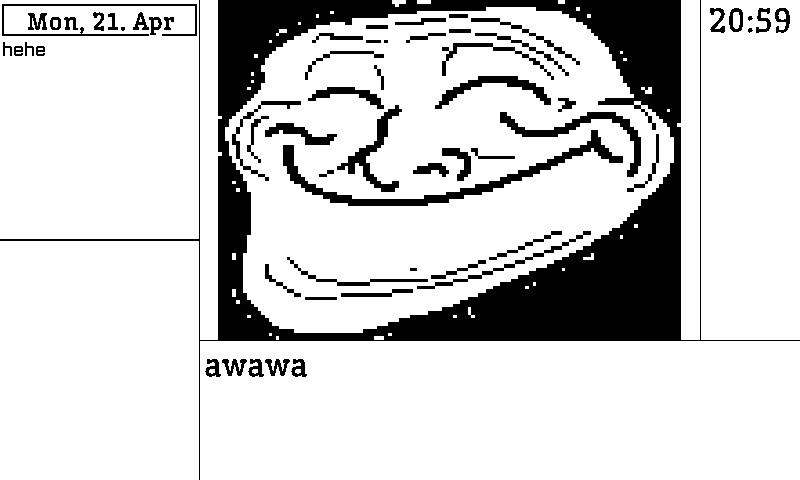
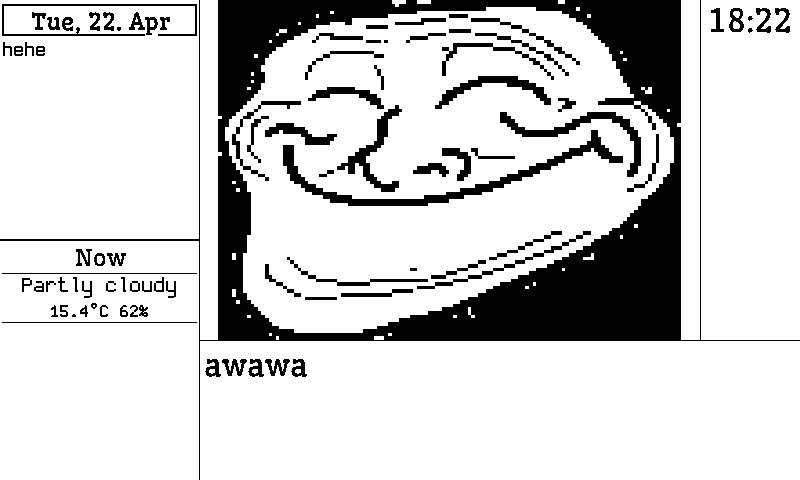
feat: Some weather layouting work

Changed region(s): [[0.0, 0.5, 0.2188, 0.6875], [0.875, 0.0, 1.0, 0.0625], [0.0312, 0.0312, 0.2188, 0.0625]]

diff --git a/igen/src/render/dash.rs b/igen/src/render/dash.rs
@@ -1,16 +1,17 @@
 use crate::provider::google::{CalendarProvider, Event, Time};
 use crate::provider::image::ImageProvider;
 use crate::provider::quote::QuoteProvider;
-use crate::provider::weather::WeatherProvider;
+use crate::provider::weather::{NiceCurrent, WeatherProvider, wmo_weather_code_to_str};
 use crate::render::epd::{Area, EPD_HEIGHT, EPD_WIDTH, EpdImage, Outline, Padding};
 use crate::render::fonts::{Font, FontCollection};
 use crate::render::graphics::{Color, Rect};
 use crate::settings::Config;
-use chrono::NaiveDate;
+use chrono::{NaiveDate, TimeDelta};
 use fontdue::layout::{HorizontalAlign, LayoutSettings, TextStyle, VerticalAlign};
 use image::imageops;
 use log::debug;
 use std::collections::{BTreeSet, HashMap};
+use std::ops::Add;
 
 pub struct Dash {
     previous_frame: Option<EpdImage>,
@@ -100,7 +101,7 @@ impl Dash {
                 Padding::full(0),
                 Outline::default(),
             );
-            date_area.try_put_text(
+            date_area.put_text(
                 &date_font,
                 LayoutSettings {
                     x: date_area.get_hstart() as f32,
@@ -142,7 +143,7 @@ impl Dash {
                     Time::Timed(dt, _) => &format!("{} {}", dt.format("%H:%M"), event.title),
                 };
 
-                event_area.try_put_text(
+                event_area.put_text(
                     &title_font,
                     LayoutSettings {
                         x: event_area.get_hstart() as f32,
@@ -195,7 +196,95 @@ impl Dash {
     }
 
     fn create_weather(&mut self, weather_area: &mut Area) {
-        self.weather_provider.check_sky();
+        let weather = self.weather_provider.check_sky();
+
+        let day_font = self.font_collection.load_font(Font::Wellfleet);
+        let weather_font = self.font_collection.load_font(Font::Dina);
+        let mut y_off = 0;
+        weather_area.put_text(
+            &day_font,
+            LayoutSettings {
+                x: weather_area.get_hstart() as f32,
+                y: y_off as f32,
+                max_width: Some(weather_area.get_available_hspace() as f32),
+                max_height: Some(weather_area.get_available_vspace() as f32),
+                horizontal_align: HorizontalAlign::Center,
+                ..LayoutSettings::default()
+            },
+            &[TextStyle::new("Now", 23.0, 0)],
+            100,
+        );
+        y_off += 30;
+
+        let mut now_area = Area::new(
+            0,
+            y_off,
+            weather_area.get_available_hspace(),
+            50,
+            Color::White,
+            Padding::full(0),
+            Outline {
+                left: 0,
+                right: 0,
+                color: Color::Black,
+                top: 1,
+                bottom: 1,
+            },
+        );
+        now_area.auto_layout_text_size(
+            &weather_font,
+            LayoutSettings {
+                x: now_area.get_hstart() as f32,
+                y: 0.0,
+                max_width: Some(now_area.get_available_hspace() as f32),
+                max_height: Some((now_area.get_available_vspace()) as f32),
+                horizontal_align: HorizontalAlign::Center,
+                ..LayoutSettings::default()
+            },
+            &[TextStyle::new(
+                wmo_weather_code_to_str(weather.current.weather_code),
+                24.0,
+                0,
+            )],
+            40,
+            24.0,
+        );
+        now_area.put_text(
+            &weather_font,
+            LayoutSettings {
+                x: now_area.get_hstart() as f32,
+                y: 28.0,
+                max_width: Some(now_area.get_available_hspace() as f32),
+                max_height: Some((now_area.get_available_vspace()) as f32),
+                horizontal_align: HorizontalAlign::Center,
+                ..LayoutSettings::default()
+            },
+            &[TextStyle::new(
+                format!(
+                    "{}°C {}%",
+                    weather.current.temperature, weather.current.humidity
+                )
+                .as_str(),
+                20.0,
+                0,
+            )],
+            40,
+        );
+
+        weather_area.add_sub_area(now_area);
+
+        y_off += 30;
+
+        const DAYS: usize = 2;
+        let mut date = chrono::Local::now().date_naive();
+
+        for i in 0..DAYS {
+            date = date.add(TimeDelta::days(1));
+            let weather = weather
+                .days
+                .get(&date)
+                .expect("No weather found for that day");
+        }
     }
 
     fn create_dashboard(&mut self) -> EpdImage {
@@ -281,7 +370,7 @@ impl Dash {
 
         let now = chrono::Local::now();
         let now_str = now.format("%H:%M").to_string();
-        misc_column.try_put_text(
+        misc_column.put_text(
             &font,
             LayoutSettings {
                 max_width: Some(misc_column.get_available_hspace() as f32),

diff --git a/igen/src/provider/weather.rs b/igen/src/provider/weather.rs
@@ -1,6 +1,7 @@
 use crate::settings::Config;
 use chrono::{NaiveDate, TimeDelta};
 use serde::Deserialize;
+use std::collections::HashMap;
 use std::ops::Add;
 
 #[derive(Deserialize, Debug)]
@@ -29,7 +30,6 @@ struct Daily {
 }
 
 pub struct NiceDaily {
-    pub date: NaiveDate,
     pub sunshine: f64,
     pub temp_min: f64,
     pub temp_max: f64,
@@ -44,7 +44,7 @@ pub struct NiceCurrent {
 
 pub struct NiceWeatherData {
     pub current: NiceCurrent,
-    pub days: Vec<NiceDaily>,
+    pub days: HashMap<NaiveDate, NiceDaily>,
 }
 
 impl From<WeatherData> for NiceWeatherData {
@@ -54,16 +54,18 @@ impl From<WeatherData> for NiceWeatherData {
             humidity: value.current.humidity,
             weather_code: value.current.weather_code,
         };
-        let mut nd: Vec<NiceDaily> = vec![];
+        let mut nd: HashMap<NaiveDate, NiceDaily> = HashMap::new();
         let today = chrono::Local::now().date_naive();
         for i in 0..value.daily.weather_code.len() {
-            nd.push(NiceDaily {
-                date: today.add(TimeDelta::days(i as i64)),
-                temp_min: value.daily.temperature_min[i],
-                temp_max: value.daily.temperature_max[i],
-                sunshine: value.daily.sunshine_duration[i],
-                weather_code: value.daily.weather_code[i],
-            });
+            nd.insert(
+                today.add(TimeDelta::days(i as i64)),
+                NiceDaily {
+                    temp_min: value.daily.temperature_min[i],
+                    temp_max: value.daily.temperature_max[i],
+                    sunshine: value.daily.sunshine_duration[i],
+                    weather_code: value.daily.weather_code[i],
+                },
+            );
         }
         NiceWeatherData {
             current: nc,

diff --git a/igen/src/render/epd.rs b/igen/src/render/epd.rs
@@ -213,7 +213,7 @@ impl Area {
             }
         }
 
-        self.try_put_text(
+        self.put_text(
             font,
             layout_settings,
             largest_text_styles.as_slice(),
@@ -221,7 +221,7 @@ impl Area {
         )
     }
 
-    pub fn try_put_text(
+    pub fn put_text(
         &mut self,
         font: &Font,
         layout_settings: LayoutSettings,
